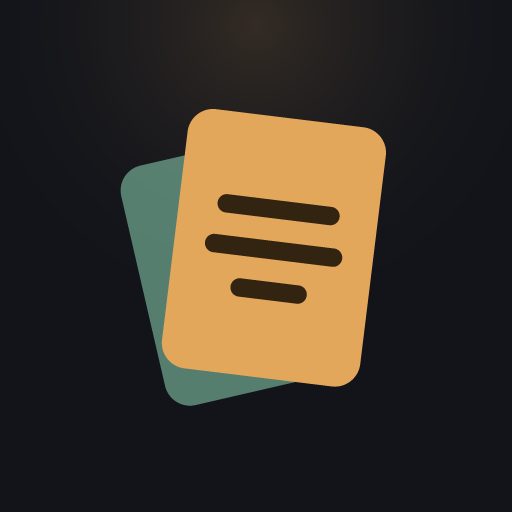
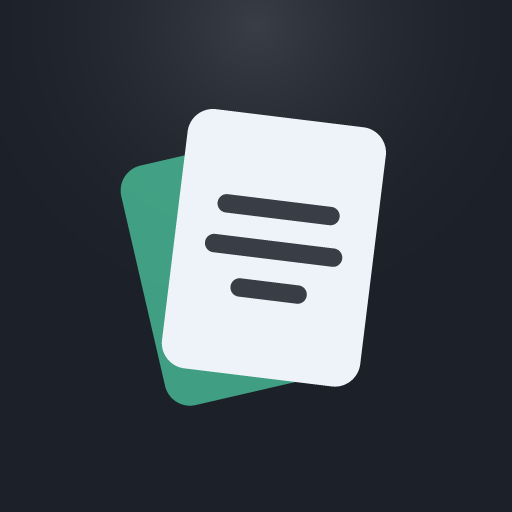
ホーム画面から起動したときの表示を整えた
- ステータスバーの様式を default に変更。black-translucent のままだと
  明るいテーマで時刻や電池表示が白のまま読めなくなるため
- ノッチとホームバーを避けるよう safe-area の余白を追加。
  ブラウザ表示では 0 になるので見た目は変わらない
- アイコンと theme_color を新しい配色（グラファイト＋白＋ミント）に合わせた

diff --git a/index.html b/index.html
@@ -5,10 +5,11 @@
     <meta name="viewport" content="width=device-width, initial-scale=1, viewport-fit=cover" />
     <title>英文暗記 — Recite</title>
     <meta name="description" content="自作の英文を貼り付けるだけでカード化し、日本語訳から英文を思い出す練習ができる暗記帳。" />
-    <meta name="theme-color" content="#12141a" media="(prefers-color-scheme: dark)" />
-    <meta name="theme-color" content="#f2eee4" media="(prefers-color-scheme: light)" />
+    <meta name="theme-color" content="#1b2029" media="(prefers-color-scheme: dark)" />
+    <meta name="theme-color" content="#f3f5f9" media="(prefers-color-scheme: light)" />
     <meta name="apple-mobile-web-app-capable" content="yes" />
-    <meta name="apple-mobile-web-app-status-bar-style" content="black-translucent" />
+    <!-- black-translucent は明るいテーマで時刻が白のまま読めなくなるため default にしている -->
+    <meta name="apple-mobile-web-app-status-bar-style" content="default" />
     <meta name="apple-mobile-web-app-title" content="英文暗記" />
     <link rel="manifest" href="./manifest.webmanifest" />
     <link rel="icon" href="./icon.svg" type="image/svg+xml" />

diff --git a/src/styles/app.css b/src/styles/app.css
@@ -594,7 +594,7 @@ button.deck__name:hover {
   bottom: 0;
   display: flex;
   gap: 0.55rem;
-  padding: 0.85rem 0 1rem;
+  padding: 0.85rem 0 calc(1rem + env(safe-area-inset-bottom));
   margin-top: 1.1rem;
   background: linear-gradient(180deg, transparent, var(--bg) 35%);
 }
@@ -882,7 +882,7 @@ button.deck__name:hover {
   min-height: 100dvh;
   width: min(100% - 2rem, 44rem);
   margin-inline: auto;
-  padding-block: 0.9rem 1.4rem;
+  padding-block: calc(0.9rem + env(safe-area-inset-top)) calc(1.4rem + env(safe-area-inset-bottom));
 }
 
 .study__bar {
@@ -1209,7 +1209,7 @@ button.deck__name:hover {
 .toast {
   position: fixed;
   left: 50%;
-  bottom: 1.5rem;
+  bottom: calc(1.5rem + env(safe-area-inset-bottom));
   transform: translateX(-50%);
   z-index: 20;
   padding: 0.6rem 1.1rem;

diff --git a/src/styles/base.css b/src/styles/base.css
@@ -189,15 +189,18 @@ button {
 
 /* ── 骨格 ───────────────────────────────────────────── */
 
+/* ホーム画面から起動したときに、ノッチやホームバーへ内容が潜り込まないようにする。
+   ブラウザ表示では env(...) が 0 になるため、見た目は変わらない。 */
 #root {
   position: relative;
   z-index: 1;
+  padding-inline: env(safe-area-inset-left) env(safe-area-inset-right);
 }
 
 .shell {
   width: min(100% - 2rem, var(--measure));
   margin-inline: auto;
-  padding-block: 1.1rem 5rem;
+  padding-block: calc(1.1rem + env(safe-area-inset-top)) calc(5rem + env(safe-area-inset-bottom));
 }
 
 @media (max-width: 480px) {
